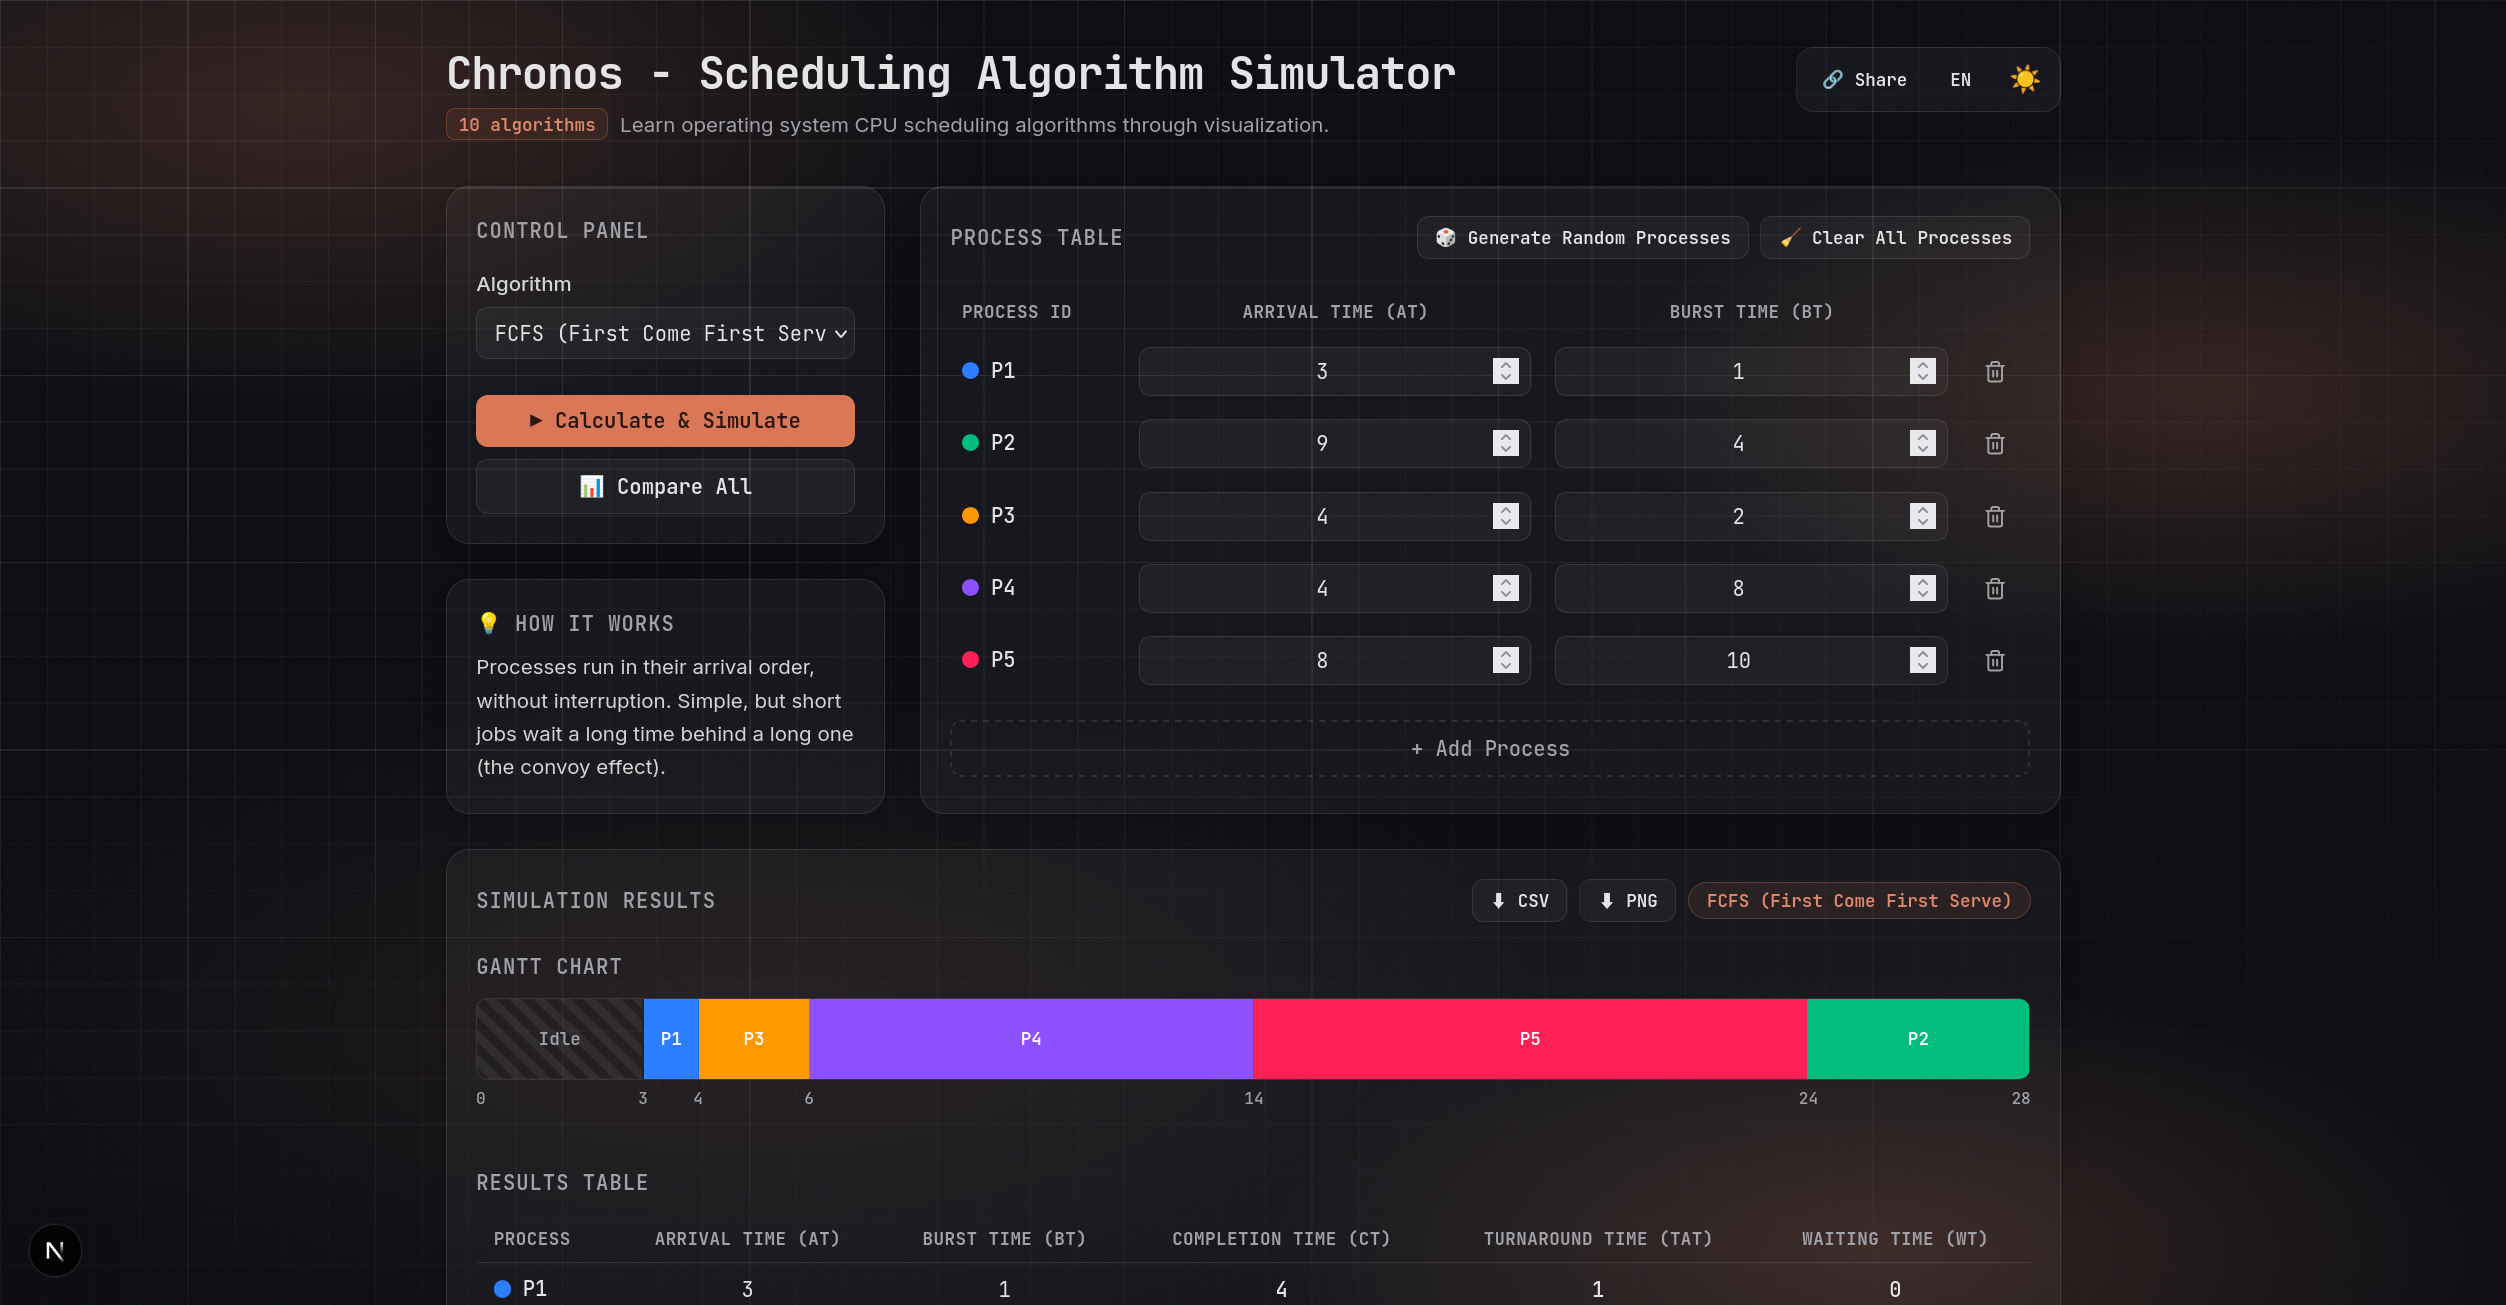
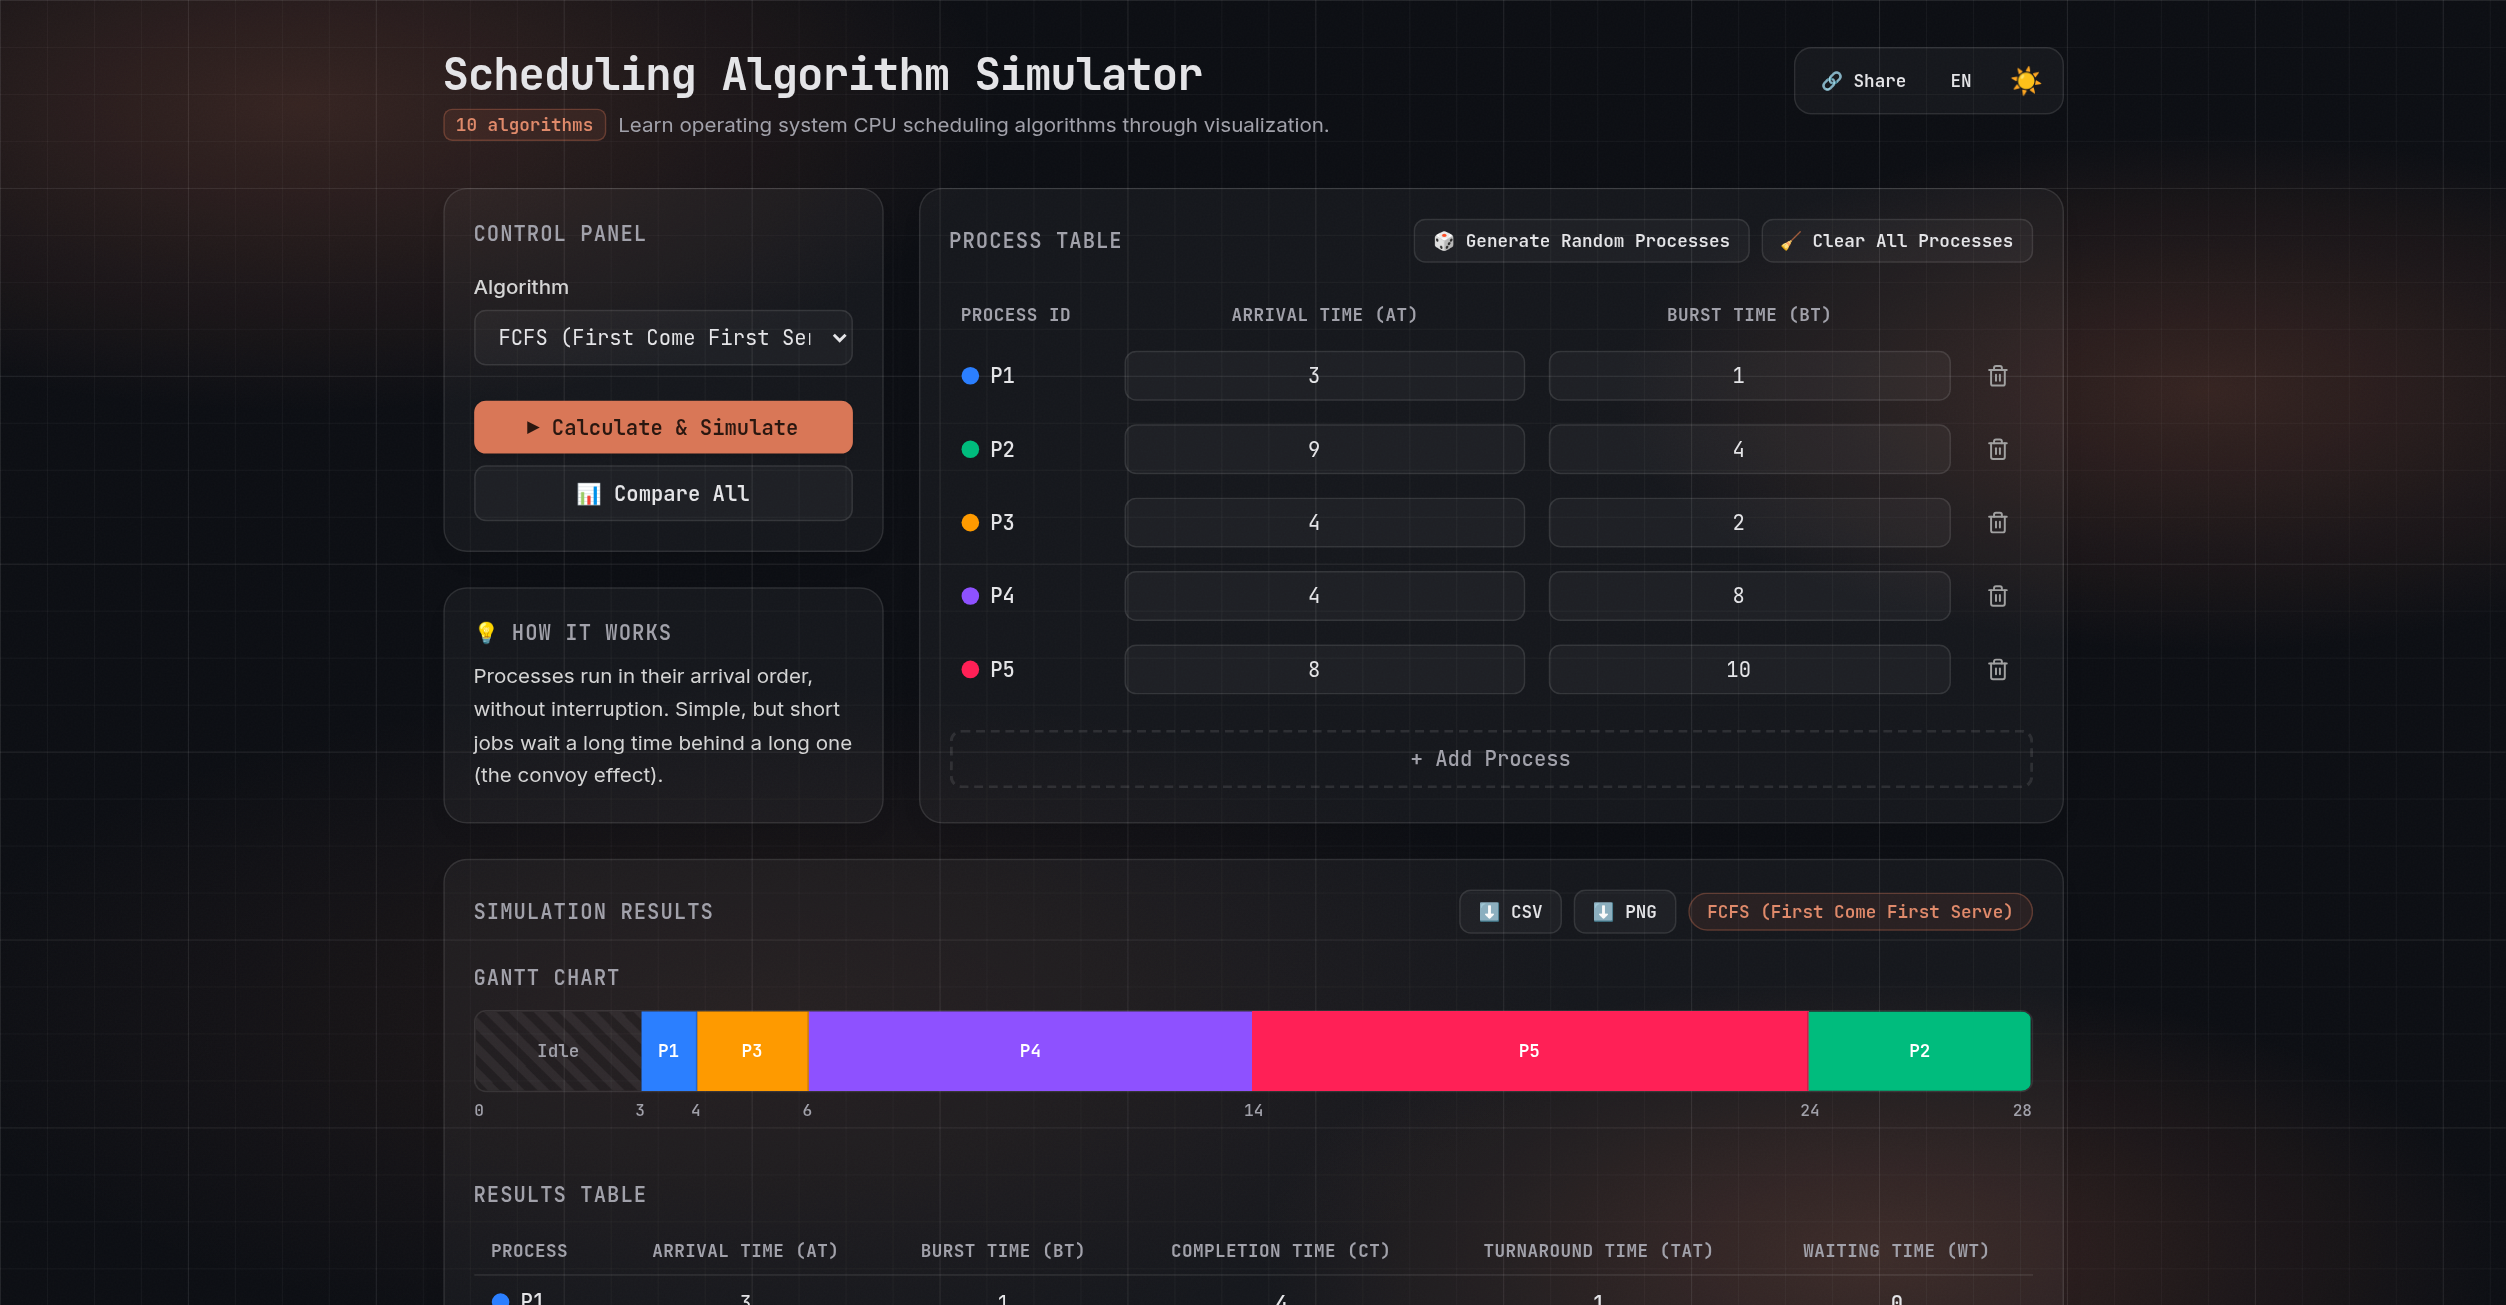
feat: rename the app to Scheduling Algorithm Simulator

diff --git a/lib/i18n.ts b/lib/i18n.ts
@@ -1,12 +1,14 @@
 export type Lang = "tr" | "en";
 
+export const appName = "Scheduling Algorithm Simulator";
+
 /**
  * Tüm arayüz metinleri. Yeni bir metin eklerken her iki dile de
  * eklenmelidir; TranslationKey tipi bunu derleme zamanında zorlar.
  */
 export const translations = {
   tr: {
-    appTitle: "Chronos - Zamanlama Algoritması Simülatörü",
+    appTitle: appName,
     appSubtitle:
       "İşletim sistemlerindeki CPU zamanlama algoritmalarını görselleştirerek öğrenin.",
     appBadge: "algoritma",
@@ -76,7 +78,7 @@ export const translations = {
     exportPng: "PNG",
   },
   en: {
-    appTitle: "Chronos - Scheduling Algorithm Simulator",
+    appTitle: appName,
     appSubtitle:
       "Learn operating system CPU scheduling algorithms through visualization.",
     appBadge: "algorithms",

diff --git a/app/layout.tsx b/app/layout.tsx
@@ -2,6 +2,7 @@ import type { Metadata } from "next";
 import { Inter, JetBrains_Mono } from "next/font/google";
 import Backdrop from "@/components/Backdrop";
 import { LanguageProvider } from "@/components/LanguageProvider";
+import { appName } from "@/lib/i18n";
 import "./globals.css";
 
 const inter = Inter({
@@ -15,7 +16,7 @@ const jetbrainsMono = JetBrains_Mono({
 });
 
 export const metadata: Metadata = {
-  title: "Chronos - Scheduling Algorithm Simulator",
+  title: appName,
   description:
     "İşletim sistemleri CPU zamanlama (scheduling) algoritmalarını interaktif olarak görselleştiren eğitim aracı: FCFS, SJF, SRTF, Round Robin ve Priority.",
 };

diff --git a/lib/i18n.test.ts b/lib/i18n.test.ts
@@ -1,0 +1,8 @@
+import { describe, expect, it } from "vitest";
+import { translations } from "./i18n";
+
+describe("simulator branding", () => {
+  it.each(["tr", "en"] as const)("uses the project name in the %s heading", (language) => {
+    expect(translations[language].appTitle).toBe("Scheduling Algorithm Simulator");
+  });
+});

diff --git a/README.md b/README.md
@@ -1,39 +1,39 @@
-# Chronos
+# Scheduling Algorithm Simulator
 
-> Interactive CPU scheduling algorithm simulator with Gantt charts and side-by-side comparison.
+> Interactive CPU scheduling algorithm simulator with Gantt charts and algorithm comparison.
 
-Chronos is an interactive, bilingual (TR/EN) educational tool for visualizing operating-system CPU scheduling algorithms. Enter processes, run a scheduler, and watch the Gantt chart, per-process metrics, and averages update instantly — or compare all ten algorithms side by side to see which one performs best.
+Scheduling Algorithm Simulator is an interactive educational tool for visualizing CPU scheduling in operating systems. It supports Turkish and English. Enter processes and run a scheduler to see the Gantt chart, metrics for each process, and averages. Compare all ten algorithms side by side to see which one performs best.
 
-**[View the live application here.](https://chronos-batuhanmeral.vercel.app)**
+**[View the live application here.](https://scheduling-algorithm-batuhanmeral.vercel.app)**
 
 
 ## Features
 
-- **Ten scheduling algorithms** — FCFS, SJF, SRTF, Round Robin, Priority (non-preemptive and preemptive), Priority + Aging, Priority Round Robin, HRRN, and MLFQ.
-- **Editable process table** — Add, delete, and edit processes, generate a random set, or clear all at once.
-- **Gantt chart** — Color-coded, animated timeline of CPU execution with idle periods clearly marked.
-- **Results table** — Completion, turnaround, and waiting time per process, plus a totals row.
-- **Aggregate metrics** — Average turnaround time, average waiting time, throughput, and CPU utilization.
-- **Algorithm comparison** — Run all algorithms on the same input and highlight the best by average waiting time.
-- **Export** — Download results as CSV or the Gantt chart as PNG.
-- **Shareable links** — The current algorithm and process set are encoded into the URL; opening a shared link restores the inputs and runs the simulation automatically.
-- **Theme & language** — Light/dark mode and Turkish/English toggles, both persisted in `localStorage`.
-- **Algorithm explanations** — A "How It Works" card summarizes the selected algorithm in plain language.
+- **Ten scheduling algorithms**. FCFS, SJF, SRTF, Round Robin, Priority (with and without preemption), Priority + Aging, Priority Round Robin, HRRN, and MLFQ.
+- **Editable process table**. Add, delete, and edit processes, generate a random set, or clear all at once.
+- **Gantt chart**. An animated timeline uses color to show CPU execution and idle periods.
+- **Results table**. Completion, turnaround, and waiting time per process, plus a totals row.
+- **Aggregate metrics**. Average turnaround time, average waiting time, throughput, and CPU utilization.
+- **Algorithm comparison**. Run all algorithms on the same input and highlight the best by average waiting time.
+- **Export**. Download results as CSV or the Gantt chart as PNG.
+- **Shareable links**. The current algorithm and process set are encoded into the URL; opening a shared link restores the inputs and runs the simulation automatically.
+- **Theme & language**. Light/dark mode and Turkish/English toggles, both persisted in `localStorage`.
+- **Algorithm explanations**. A "How It Works" card summarizes the selected algorithm in plain language.
 
 ## Algorithms
 
 | Algorithm | Preemptive | Notes |
 | --- | --- | --- |
-| **FCFS** — First Come First Serve | No | Runs processes in arrival order. |
-| **SJF** — Shortest Job First | No | Picks the shortest available burst time next. |
-| **SRTF** — Shortest Remaining Time First | Yes | Preemptive variant of SJF; re-evaluates on every arrival. |
-| **RR** — Round Robin | Yes | Cycles through processes using a configurable time quantum. |
-| **Priority** | No | Runs the highest-priority available process (lower value = higher priority). |
-| **Priority (Preemptive)** | Yes | A higher-priority arrival takes over the CPU immediately. |
+| **FCFS** (First Come First Serve) | No | Runs processes in arrival order. |
+| **SJF** (Shortest Job First) | No | Picks the shortest available burst time next. |
+| **SRTF** (Shortest Remaining Time First) | Yes | Preemptive variant of SJF; reevaluates on every arrival. |
+| **RR** (Round Robin) | Yes | Cycles through processes using a configurable time quantum. |
+| **Priority** | No | Runs the available process with the highest priority (lower value = higher priority). |
+| **Priority (Preemptive)** | Yes | A process arriving with higher priority takes over the CPU immediately. |
 | **Priority + Aging** | Yes | Waiting processes gain one effective priority level every 5 time units, preventing starvation. |
-| **Priority Round Robin** | Yes | One queue per priority level; the highest-priority queue is served with Round Robin. |
-| **HRRN** — Highest Response Ratio Next | No | Picks the highest `(waiting + burst) / burst` ratio; solves SJF's starvation problem. |
-| **MLFQ** — Multi-Level Feedback Queue | Yes | Three queues: RR with quantum, RR with 2×quantum, then FCFS; jobs that exhaust their quantum are demoted. |
+| **Priority Round Robin** | Yes | One queue per priority level; the queue with the highest priority is served with Round Robin. |
+| **HRRN** (Highest Response Ratio Next) | No | Picks the highest `(waiting + burst) / burst` ratio; solves SJF's starvation problem. |
+| **MLFQ** (Multilevel Feedback Queue) | Yes | Three queues: RR with quantum, RR with 2×quantum, then FCFS; jobs that exhaust their quantum are demoted. |
 
 Each process is defined by an **arrival time (AT)**, a **burst time (BT)**, and a **priority** (used by the Priority family of algorithms). The time quantum applies to Round Robin, Priority Round Robin, and MLFQ.
 
@@ -61,12 +61,12 @@ Open [http://localhost:3000](http://localhost:3000) in your browser.
 
 | Command | What it does |
 | --- | --- |
-| `npm test` | Run all unit tests once (Vitest, CI-friendly) |
+| `npm test` | Run all unit tests once (Vitest, suited to CI) |
 | `npm test -- <file>` | Run a single test file |
 | `npm run test:watch` | Run tests in watch mode |
 | `npm run test:coverage` | Run tests with coverage and enforce thresholds |
 | `npm run lint` | Lint with ESLint (`eslint-config-next`) |
-| `npm run typecheck` | Type-check with `tsc --noEmit` |
+| `npm run typecheck` | Check types with `tsc --noEmit` |
 | `npm run check` | Run lint, typecheck and tests with coverage |
 
 More detailed developer documentation lives in `.docs/` (written in Turkish).
@@ -85,12 +85,12 @@ Actions are pinned to commit SHAs and scanner images to digests. Details are in 
 <table>
   <tr>
     <td align="center">
-      <img src="docs/image_1.png" alt="Chronos — control panel, algorithm explanation and editable process table" width="900" />
+      <img src="docs/image_1.png" alt="Scheduling Algorithm Simulator, control panel, algorithm explanation and editable process table" width="900" />
     </td>
   </tr>
   <tr>
     <td align="center">
-      <img src="docs/image_2.png" alt="Chronos — results table, aggregate metrics and algorithm comparison" width="900" />
+      <img src="docs/image_2.png" alt="Scheduling Algorithm Simulator, results table, aggregate metrics and algorithm comparison" width="900" />
     </td>
   </tr>
 </table>

diff --git a/AGENTS.md b/AGENTS.md
@@ -1,8 +1,8 @@
 # AGENTS.md
 
-Chronos: Next.js 16 + React 19 ile yazılmış CPU zamanlama algoritması
-simülatörü. Zamanlama mantığı saf TypeScript olarak `lib/algorithms/`
-altındadır; UI `app/` ve `components/` altındadır.
+Scheduling Algorithm Simulator, Next.js 16 + React 19 ile yazılmış bir CPU
+zamanlama algoritması simülatörüdür. Zamanlama mantığı saf TypeScript olarak
+`lib/algorithms/` altındadır. Arayüz `app/` ve `components/` altındadır.
 
 ## Commands
 
